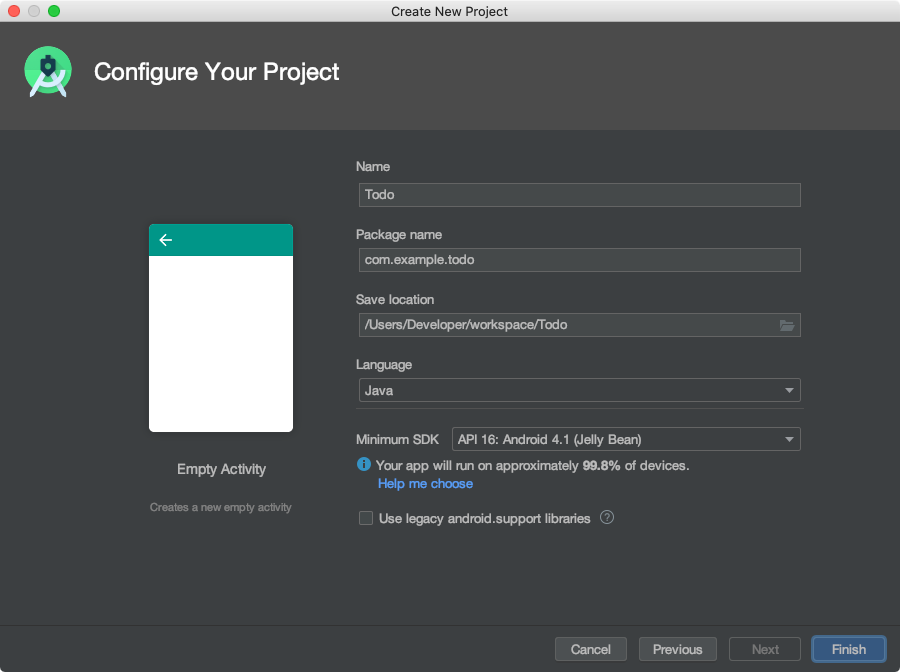
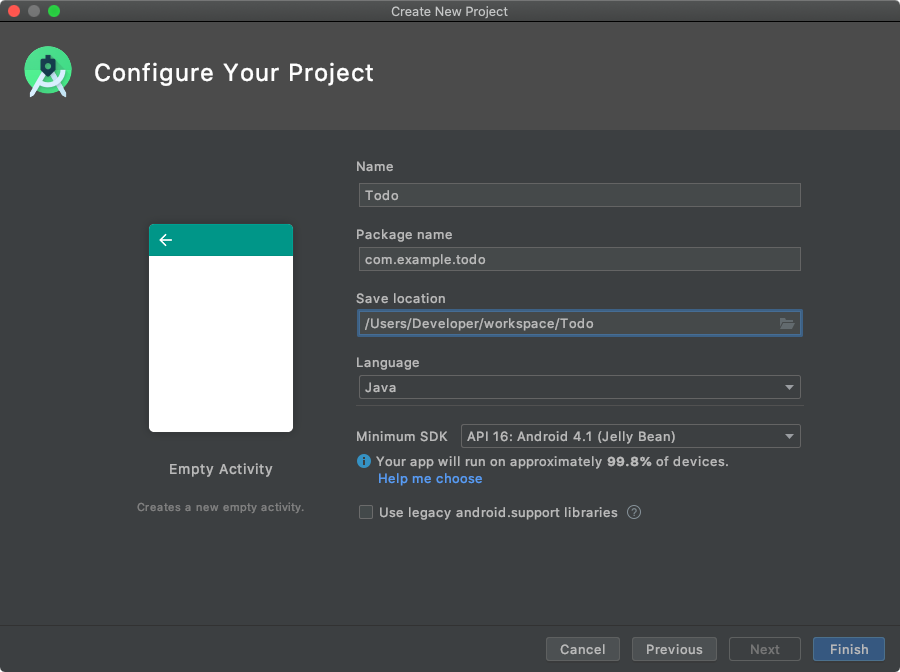
Getting Started fixes for Android
- Replace the call to Hub with DataStore.observe as this is what that
  facility is for and Hub is moreso plumbing.
- Change the guide to create a standalone application class in the
  integration section to avoid a possible race condition exposed by
  Android Studio 4.0.
- Update screenshots

diff --git a/docs/start/getting-started/fragments/android/integrate.md b/docs/start/getting-started/fragments/android/integrate.md
@@ -2,43 +2,89 @@ Next you'll use the generated model to read and write data. In this section you'
 
 ## Configure Amplify and DataStore
 
-First, we'll add the DataStore plugin and configure Amplify. Typically, a good place to do this is in the [`onCreate()`](https://developer.android.com/reference/android/app/Application#onCreate()) method of [Android's `Application` class](https://developer.android.com/reference/android/app/Application). For the purposes of this tutorial, you can place these examples in the `onCreate()` method of the `MainActivity` class.
+First, we'll add the DataStore plugin and configure Amplify by creating an Application class and overriding the `onCreate()` method.
 
-1. Open `MainActivity` and add the following code to the bottom of the `onCreate()` method:
+1. Go to **File** > **New** and select either **Java Class** or **Kotlin File/Class**.
+
+1. Select *Class*.
+
+1. Type **MyAmplifyApplication** in the **Name** field.
+
+1. Paste the following code to initialize Amplify:
 
   <amplify-block-switcher>
   <amplify-block name="Java">
   
-  ```java
-  try {
-      Amplify.addPlugin(new AWSDataStorePlugin());
-      Amplify.addPlugin(new AWSApiPlugin());
-      Amplify.configure(getApplicationContext());
+    ```java
+    public class MyAmplifyApplication extends Application {
+        public void onCreate() {
+            super.onCreate();
+            try {
+                Amplify.addPlugin(new AWSApiPlugin());
+                Amplify.addPlugin(new AWSDataStorePlugin());
+                Amplify.configure(getApplicationContext());
 
-      Log.i("Tutorial", "Initialized Amplify");
-  } catch (AmplifyException e) {
-      Log.e("Tutorial", "Could not initialize Amplify", e);
-  }
-  ```
+                Log.i("Tutorial", "Initialized Amplify");
+            } catch (AmplifyException e) {
+                Log.e("Tutorial", "Could not initialize Amplify", e);
+            }
+        }
+    }
+    ```
 
   </amplify-block>
 
   <amplify-block name="Kotlin">
 
   ```kotlin
-  try {
-      Amplify.addPlugin(AWSDataStorePlugin())
-      Amplify.addPlugin(AWSApiPlugin())
-      Amplify.configure(applicationContext)
-
-      Log.i("Tutorial", "Initialized Amplify")
-  } catch (e: AmplifyException) {
-      Log.e("Tutorial", "Could not initialize Amplify", e)
+  class MyAmplifyApplication : Application() {
+      override fun onCreate() {
+          super.onCreate()
+          try {
+              Amplify.addPlugin(AWSApiPlugin())
+              Amplify.addPlugin(AWSDataStorePlugin())
+              Amplify.configure(applicationContext)
+              Log.i("Tutorial", "Initialized Amplify")
+          } catch (e: AmplifyException) {
+              Log.e("Tutorial", "Could not initialize Amplify", e)
+          }
+      }
   }
   ```
 
   </amplify-block>
   </amplify-block-switcher>
+
+1. Open **manifests** > **AndroidManifest.xml** to configure your application.
+
+1. Add the `android:name` and `tools:replace` attributes in the `application` node. Your file will look like this:
+
+  ```xml
+<?xml version="1.0" encoding="utf-8"?>
+<manifest xmlns:android="http://schemas.android.com/apk/res/android"
+    xmlns:tools="http://schemas.android.com/tools"
+    package="com.example.todo">
+
+    <!-- Add the android:name and tools:replace attributes to the application node -->
+    <application
+        android:name=".MyAmplifyApplication"
+        tools:replace="android:name"
+        android:allowBackup="true"
+        android:icon="@mipmap/ic_launcher"
+        android:label="@string/app_name"
+        android:roundIcon="@mipmap/ic_launcher_round"
+        android:supportsRtl="true"
+        android:theme="@style/AppTheme">
+        <activity android:name=".MainActivity">
+            <intent-filter>
+                <action android:name="android.intent.action.MAIN" />
+
+                <category android:name="android.intent.category.LAUNCHER" />
+            </intent-filter>
+        </activity>
+    </application>
+</manifest>
+```
 
 1. Run the application. In logcat, you'll see a log line indicating success:
 

diff --git a/docs/start/getting-started/fragments/android/add-api.md b/docs/start/getting-started/fragments/android/add-api.md
@@ -20,24 +20,11 @@ Now that your have DataStore persisting data locally, in the next step you'll co
   <amplify-block name="Java">
   
   ```java
-  Amplify.Hub.subscribe(
-          HubChannel.DATASTORE,
-          event -> DataStoreChannelEventName.RECEIVED_FROM_CLOUD.toString().equals(event.getName()),
-          event -> {
-              ModelWithMetadata<?> modelWithMetadata = (ModelWithMetadata<?>) event.getData();
-              Todo todo = (Todo) modelWithMetadata.getModel();
-
-              Log.i("Tutorial", "==== Todo ====");
-              Log.i("Tutorial", "Name: " + todo.getName());
-
-              if (todo.getPriority() != null) {
-                  Log.i("Tutorial", "Priority: " + todo.getPriority().toString());
-              }
-
-              if (todo.getDescription() != null) {
-                  Log.i("Tutorial", "Description: " + todo.getDescription());
-              }
-          }
+  Amplify.DataStore.observe(Todo.class,
+          started -> Log.i("Tutorial", "Observation began."),
+          change -> Log.i("Tutorial", change.item().toString()),
+          failure -> Log.e("Tutorial", "Observation failed.", failure),
+          () -> Log.i("Tutorial", "Observation complete.")
   );
   ```
 
@@ -46,34 +33,18 @@ Now that your have DataStore persisting data locally, in the next step you'll co
   <amplify-block name="Kotlin">
 
   ```kotlin
-  Amplify.Hub.subscribe(
-          HubChannel.DATASTORE,
-          { event -> event.getName() == DataStoreChannelEventName.RECEIVED_FROM_CLOUD.toString() },
-          { event ->
-              val modelWithMetadata = event.getData() as ModelWithMetadata<*>?
-              val todo: Todo = modelWithMetadata!!.model as Todo
-              val name = todo.name;
-              val priority: Priority? = todo.priority
-              val description: String? = todo.description
-
-              Log.i("Tutorial", "==== Todo ====")
-              Log.i("Tutorial", "Name: $name")
-
-              if (priority != null) {
-                  Log.i("Tutorial", "Priority: $priority")
-              }
-
-              if (description != null) {
-                  Log.i("Tutorial", "Description: $description")
-              }
-          }
+  Amplify.DataStore.observe(Todo::class.java,
+          { Log.i("Tutorial", "Observation began.") },
+          { Log.i("Tutorial", it.item().toString()) },
+          { Log.e("Tutorial", "Observation failed.", it) },
+          { Log.i("Tutorial", "Observation complete.") }
   )
   ```
 
   </amplify-block>
   </amplify-block-switcher>
 
-1. Run the application. This will synchronize the existing local Todo items to the cloud. The above snippet subscribes to Hub – our lightweight publish/subscribe mechanism to allow an application to be notified of events – for any items created on the cloud and synchronized locally and logs those Todo items. 
+1. Run the application. This will synchronize the existing local Todo items to the cloud. The above snippet subscribes to all changes synchronized from the backend API.
 
 1. Open up a terminal window. You can use an external terminal or the integrated terminal in Android Studio. In the terminal, run:
 
@@ -131,8 +102,5 @@ Now that your have DataStore persisting data locally, in the next step you'll co
 1. In the logs of your running application, filter for **Tutorial**. You will see this item synchronize to your local storage:
 
     ```console
-    com.example.todo I/Tutorial: ==== Todo ====
-    com.example.todo I/Tutorial: Name: Tidy up the office
-    com.example.todo I/Tutorial: Priority: NORMAL
-    com.example.todo I/Tutorial: Description: Organize books, vacuum, take out the trash
+    com.example.todo I/Tutorial: Todo {id=b9fa0d33-873e-46f3-baa3-3148f6f47d44, name=Tidy up the office, priority=NORMAL, description=Organize books, vacuum, take out the trash}
     ```
